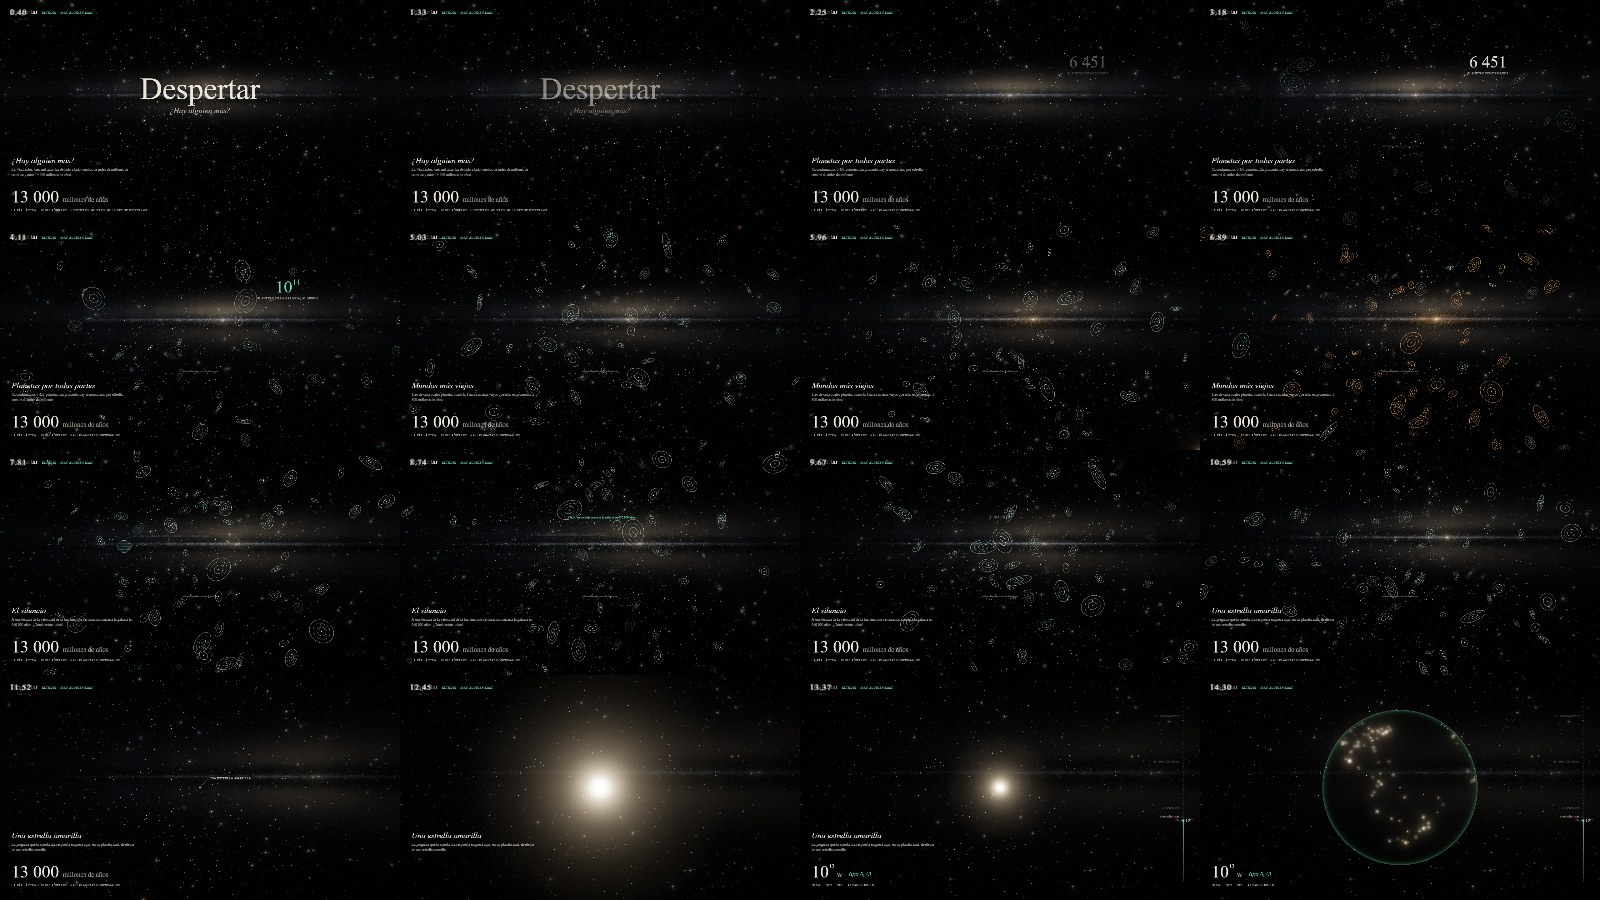
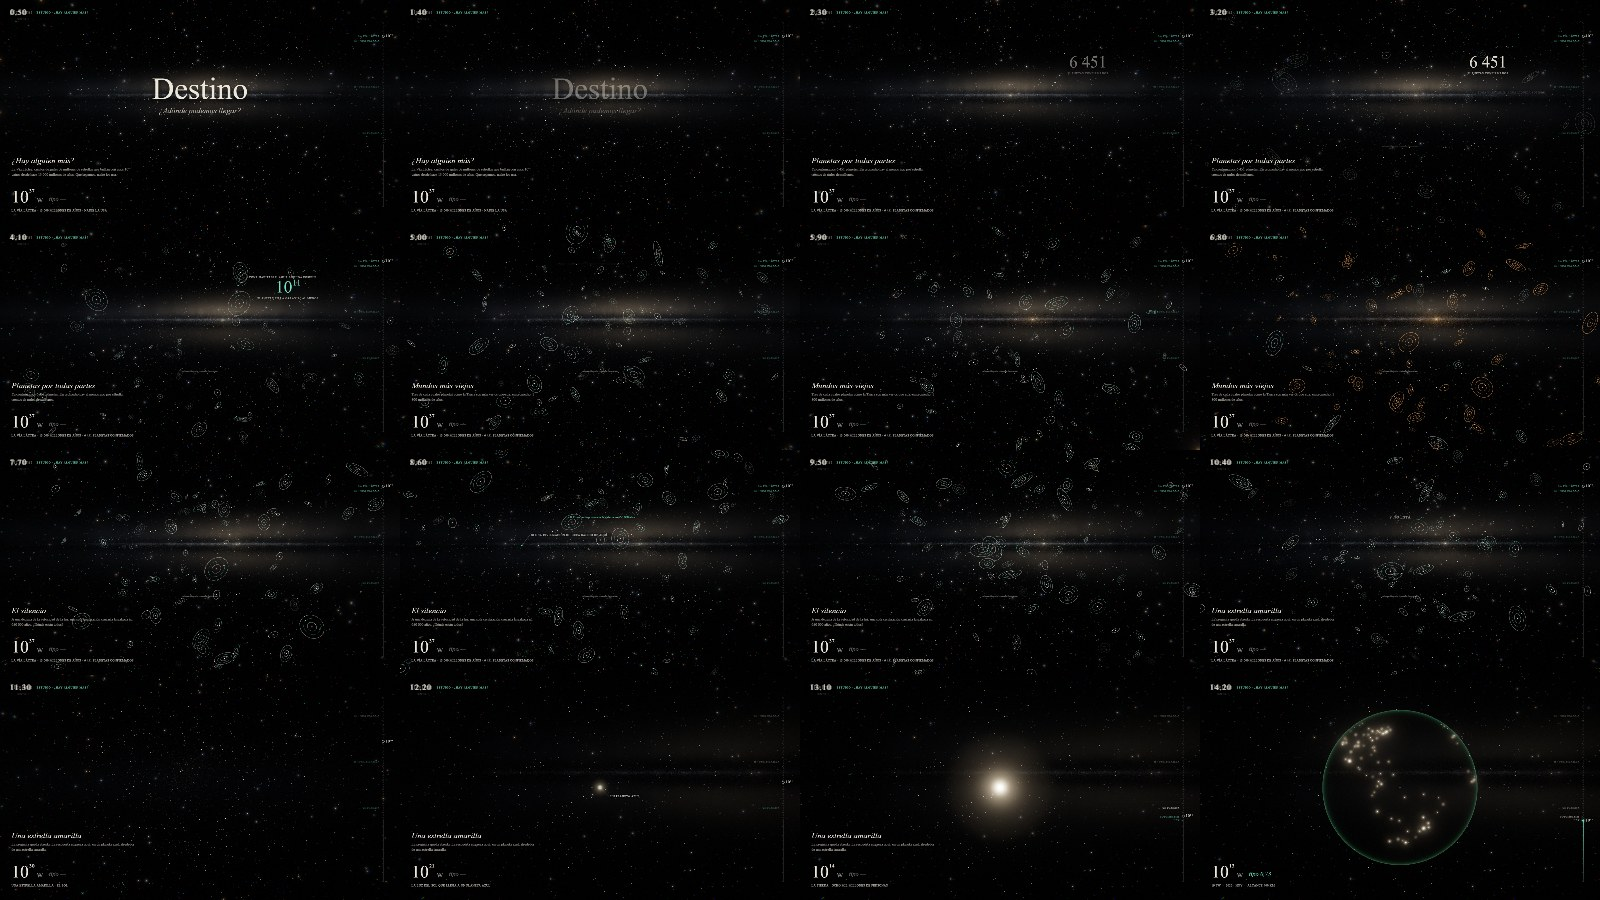
feat(studies): finish the opening as Destino, with the unused power on the clock
Before there is a civilization the clock reads the power that is there and nobody uses (the galaxy, 10^37 W, type unset, an empty ladder) and falls with what is in view on the dive until it reaches ours. The habitable zone gets its label.

diff --git a/prototypes/src/estudios/apertura.ts b/prototypes/src/estudios/apertura.ts
@@ -20,6 +20,10 @@ import type { Escena, Frame, Instancia } from './tipos';
  * 3 · Listening: from the Sun out: our own voice (a bubble of radio ~100 ly) against a galaxy of
  *     100 000 ly; how little we have listened; then back down.
  *
+ * The clock has no civilization to measure yet: it reads the power that is there and nobody uses
+ * (the galaxy, ~10³⁷ W), and on the dive it falls with what is in view (a star, the light on a planet)
+ * until it reaches ours, 10¹³ W, where the ladder starts to fill.
+ *
  * Figures: 6 451 confirmed planets (NASA Exoplanet Archive, 15 Oct 2026); at least one planet per star
  * on average (Cassan et al. 2012); three in four Earth-like planets older than the Earth, by 1.8 ±
  * 0.9 Gyr on average (Lineweaver 2001); at 0.1 c the galaxy is crossed in ~650 000 years (Hart
@@ -98,7 +102,7 @@ export const apertura: Escena = {
     // ------------------------------------------------------------ the journey
     const tl = new Timeline({ f: 0, plan: 0, old: 0, bub: 0, dive: 0, voz: 0, lejos: 0 });
     const cap = (d: number, n: string, f: string) => tl.caption(d, n, f);
-    cap(1.8, '¿Hay alguien más?', 'La Vía Láctea: cien mil años luz de lado a lado, cientos de miles de millones de estrellas y unos 13 000 millones de años.');
+    cap(1.8, '¿Hay alguien más?', 'La Vía Láctea: cientos de miles de millones de estrellas que brillan con unos 10³⁷ vatios desde hace 13 000 millones de años. Que sepamos, nadie los usa.');
     tl.label('portada').to(1.8, { f: 0.06 });
     if (s === 3) {
       cap(2.6, 'Nuestra voz', 'Las primeras radios salieron hace un siglo. Desde entonces, nuestra voz llena una burbuja de unos 100 años luz.');
@@ -189,10 +193,17 @@ export const apertura: Escena = {
       tl,
       listo: earth.listo,
       lectura: (p) => (ended(p) ? { lp: 13.28, ly: -1, lr: 5.6 } : null),
-      reloj: (p) => {
+      // The power that is there and nobody uses; on the dive it falls with what is in view.
+      libre: (p) => {
         const k = tl.get('dive', p);
-        if (k > 0.75) return { cifra: 'Hoy', unidad: '', linea: 'la Tierra · ocho mil millones de personas', a: ease(0.75, 0.9, k) };
-        return { cifra: '13 000', unidad: 'millones de años', linea: s === 3 ? 'la Vía Láctea · 100 000 años luz · nuestra radio: 100' : `la Vía Láctea · 100 000 años luz · ${tl.get('plan', p) > 0.05 ? '6 451 planetas confirmados' : 'cientos de miles de millones de estrellas'}`, a: 1 - ease(0.6, 0.72, k) };
+        const lp = lerp(lerp(lerp(37.0, 26.58, ease(0.1, 0.35, k)), 17.24, ease(0.5, 0.75, k)), 13.28, ease(0.85, 0.985, k));
+        const linea =
+          k > 0.85 ? 'la Tierra · ocho mil millones de personas'
+          : k > 0.5 ? 'la luz del Sol que llega a un planeta azul'
+          : k > 0.1 ? 'una estrella amarilla · el Sol'
+          : s === 3 ? 'la Vía Láctea · 13 000 millones de años · nuestra radio: 100 años luz'
+          : `la Vía Láctea · 13 000 millones de años · ${tl.get('plan', p) > 0.05 ? '6 451 planetas confirmados' : 'nadie la usa'}`;
+        return { lp, linea };
       },
       rotulo: (p) => tl.captionAt(p),
       update(f: Frame) {
@@ -266,10 +277,10 @@ export const apertura: Escena = {
           g.shadowBlur = 20 * u;
           g.font = FONT.serif(118 * u);
           g.fillStyle = ink();
-          g.fillText('Despertar', W / 2, H * 0.44);
+          g.fillText('Destino', W / 2, H * 0.44);
           g.font = FONT.italic(30 * u);
           g.fillStyle = ink(0.75);
-          g.fillText('¿Hay alguien más?', W / 2, H * 0.44 + 54 * u);
+          g.fillText('¿Adónde podemos llegar?', W / 2, H * 0.44 + 54 * u);
           g.restore();
         }
         const dive = tl.get('dive', p);
@@ -277,6 +288,7 @@ export const apertura: Escena = {
         const plan = tl.get('plan', p) * (1 - ease(0.05, 0.25, dive));
         if (plan > 0.01) {
           let shown = 0;
+          let zona: { x: number; y: number; a: number } | null = null;
           for (let i = 0; i < G.conPlanetas.length && shown < 260; i++) {
             const st = G.conPlanetas[i];
             const dly = st.distanceTo(v.pos);
@@ -303,6 +315,7 @@ export const apertura: Escena = {
                 const ang = time * (0.4 / (1 + o)) + i;
                 const px = q.x + Math.cos(ang) * rr * Math.cos(rot) - Math.sin(ang) * rr * (0.25 + 0.6 * tilt) * Math.sin(rot);
                 const py = q.y + Math.cos(ang) * rr * Math.sin(rot) + Math.sin(ang) * rr * (0.25 + 0.6 * tilt) * Math.cos(rot);
+                if (o === 1 && amber <= 0.5 && !zona && q.x > W * 0.3 && q.x < W * 0.7 && q.y > H * 0.15 && q.y < H * 0.55) zona = { x: q.x + rr * Math.cos(rot), y: q.y + rr * Math.sin(rot), a: a };
                 g.fillStyle = amber > 0.5 ? '#ffb070' : o === 1 ? TEAL : ink(0.85);
                 g.beginPath();
                 g.arc(px, py, 1.6 * u, 0, Math.PI * 2);
@@ -333,7 +346,29 @@ export const apertura: Escena = {
               shown += 0.1;
             }
           }
-          if (s === 1) texto(g, u, W / 2, H - 300 * u, 'órbitas dibujadas · tamaño ilustrativo', ink(0.5), plan, 9, 'center', false);
+          if (s === 1) {
+            texto(g, u, W / 2, H - 300 * u, 'órbitas dibujadas · tamaño ilustrativo', ink(0.5), plan, 9, 'center', false);
+            const z = zona as { x: number; y: number; a: number } | null;
+            if (z) nota(g, u, z.x, z.y, 'zona habitable: agua líquida posible', 36, -30, z.a * ease(P('planetas') + 0.6, P('planetas') + 1.2, p) * (1 - ease(P('viejos') - 0.2, P('viejos') + 0.3, p)));
+          } else {
+            // The key, from afar: the teal ones have a planet in their habitable zone.
+            const ka = plan * ease(P('planetas') + 0.6, P('planetas') + 1.2, p);
+            if (ka > 0.01) {
+              g.save();
+              g.globalAlpha = ka;
+              g.fillStyle = ink(0.8);
+              g.beginPath();
+              g.arc(W / 2 - 150 * u, H - 300 * u, 2.4 * u, 0, Math.PI * 2);
+              g.fill();
+              g.fillStyle = TEAL;
+              g.beginPath();
+              g.arc(W / 2 + 6 * u, H - 300 * u, 2.4 * u, 0, Math.PI * 2);
+              g.fill();
+              g.restore();
+              texto(g, u, W / 2 - 142 * u, H - 300 * u, 'una estrella con planetas', ink(0.7), ka, 9.5, 'left', false);
+              texto(g, u, W / 2 + 14 * u, H - 300 * u, 'uno en la zona habitable', TEAL, ka, 9.5, 'left', false);
+            }
+          }
           // The count, as the show.
           if (s !== 3) {
             const c = ease(P('planetas') + 0.2, P('planetas') + 0.8, p) * (1 - ease(P('viejos') - 0.3, P('viejos'), p));

diff --git a/prototypes/src/placa.ts b/prototypes/src/placa.ts
@@ -271,12 +271,13 @@ const II = 26;
 const III = 36;
 
 /** The power ladder at the right edge: fills with the civilization's colour up to where it is. */
-export function escalera(g: CanvasRenderingContext2D, u: number, W: number, H: number, lp: number, muro: Muro | null = null) {
+export function escalera(g: CanvasRenderingContext2D, u: number, W: number, H: number, lp: number, muro: Muro | null = null, vacia = 0) {
   const x = W - 64 * u;
   const y0 = H - 70 * u;
   const y1 = 86 * u;
   const yOf = (v: number) => y0 + ((v - LP0) / (LP1 - LP0)) * (y1 - y0);
   g.save();
+  const A0 = g.globalAlpha;
   // The rail, by certainty: solid (measured) up to today, dashed (physics allows it) to II, dotted beyond.
   g.lineWidth = Math.max(1, 1.1 * u);
   const seg = (a: number, b: number, dash: number[], alpha: number) => {
@@ -307,7 +308,9 @@ export function escalera(g: CanvasRenderingContext2D, u: number, W: number, H: n
   grd.addColorStop(0, 'rgba(111,227,193,0.05)');
   grd.addColorStop(1, 'rgba(111,227,193,0.9)');
   g.fillStyle = grd;
+  g.globalAlpha = A0 * (1 - vacia);
   g.fillRect(x - 1.6 * u, yp, 3.2 * u, y0 - yp);
+  g.globalAlpha = A0;
   // Rungs: names show only near where we are (majors always, faint).
   g.font = FONT.mono(9 * u);
   g.letterSpacing = `${1 * u}px`;
@@ -318,7 +321,7 @@ export function escalera(g: CanvasRenderingContext2D, u: number, W: number, H: n
     const near = 1 - smoothstep(1.2, 3.2, Math.abs(r.lp - lp));
     const a = r.major ? 0.38 + 0.5 * near : 0.7 * near;
     if (a < 0.02) continue;
-    g.fillStyle = r.lp <= lp ? `rgba(111,227,193,${a})` : ink(a);
+    g.fillStyle = r.lp <= lp && vacia < 0.5 ? `rgba(111,227,193,${a})` : ink(a);
     g.fillText(r.label.toUpperCase(), x - 14 * u, yy);
     g.fillRect(x - (r.major ? 10 : 6) * u, yy - 0.5 * u, (r.major ? 10 : 6) * u, Math.max(1, u));
   }
@@ -361,14 +364,26 @@ export function escalera(g: CanvasRenderingContext2D, u: number, W: number, H: n
     }
     g.restore();
   }
-  // You are here.
-  g.fillStyle = TEAL;
-  g.shadowColor = TEAL;
-  g.shadowBlur = 10 * u;
-  g.beginPath();
-  g.arc(x, yp, 4 * u, 0, Math.PI * 2);
-  g.fill();
-  g.shadowBlur = 0;
+  // You are here (or, with an empty ladder, the power that is there and nobody uses: a hollow ring).
+  if (vacia < 1) {
+    g.globalAlpha = A0 * (1 - vacia);
+    g.fillStyle = TEAL;
+    g.shadowColor = TEAL;
+    g.shadowBlur = 10 * u;
+    g.beginPath();
+    g.arc(x, yp, 4 * u, 0, Math.PI * 2);
+    g.fill();
+    g.shadowBlur = 0;
+  }
+  if (vacia > 0) {
+    g.globalAlpha = A0 * vacia;
+    g.strokeStyle = ink(0.85);
+    g.lineWidth = Math.max(1, 1.2 * u);
+    g.beginPath();
+    g.arc(x, yp, 4.5 * u, 0, Math.PI * 2);
+    g.stroke();
+  }
+  g.globalAlpha = A0;
   g.textAlign = 'left';
   g.font = FONT.serif(15 * u);
   g.fillStyle = ink(0.9);
@@ -384,14 +399,45 @@ export function marca(g: CanvasRenderingContext2D, u: number, concepto: string, 
   g.shadowBlur = 10 * u;
   g.font = FONT.serif(27 * u);
   g.fillStyle = ink();
-  g.fillText('Despertar', 40 * u, 54 * u);
-  const w = g.measureText('Despertar').width;
+  g.fillText('Destino', 40 * u, 54 * u);
+  const w = g.measureText('Destino').width;
   g.font = FONT.mono(10.5 * u);
   g.letterSpacing = `${1.4 * u}px`;
   g.fillStyle = TEAL;
   g.fillText(concepto.toUpperCase(), 40 * u + w + 16 * u, 52 * u);
   g.fillStyle = ink(0.5);
   g.fillText(sub.toUpperCase(), 40 * u, 76 * u);
+  g.restore();
+}
+
+/**
+ * The power clock before there is a civilization: the power that is there (the galaxy, a star, the
+ * light on a planet) and nobody uses. Same place and size as the HUD, «tipo —» instead of the type.
+ */
+export function hudLibre(g: CanvasRenderingContext2D, u: number, H: number, lp: number, linea: string, cap: Rotulo | null, capAlpha = 1, alpha = 1) {
+  const x = 44 * u;
+  g.save();
+  g.textBaseline = 'alphabetic';
+  g.shadowColor = 'rgba(0,0,0,0.85)';
+  g.shadowBlur = 12 * u;
+  if (cap && capAlpha > 0.01) {
+    g.globalAlpha = capAlpha;
+    g.font = FONT.italic(31 * u);
+    g.fillStyle = ink();
+    g.fillText(cap.name, x, H - 236 * u);
+    g.font = FONT.sans(14 * u);
+    g.fillStyle = ink(0.62);
+    wrap(g, cap.fact, 470 * u).forEach((line, i) => g.fillText(line, x, H - 208 * u + i * 20 * u));
+  }
+  g.globalAlpha = alpha;
+  const w = potencia(g, x, H - 86 * u, sup(Math.floor(lp)), 'W', 66 * u);
+  g.font = FONT.italic(24 * u);
+  g.fillStyle = ink(0.45);
+  g.fillText('tipo —', x + w + 22 * u, H - 92 * u);
+  g.font = FONT.mono(11 * u);
+  g.letterSpacing = `${0.9 * u}px`;
+  g.fillStyle = ink(0.78);
+  g.fillText(linea.toUpperCase(), x, H - 52 * u);
   g.restore();
 }
 

diff --git a/prototypes/src/estudios.ts b/prototypes/src/estudios.ts
@@ -7,7 +7,7 @@ import * as THREE from 'three';
 import { clamp, damp } from './math';
 import { createStage, liberar } from './stage';
 import { FONDOS } from './pantalla';
-import { escalera, hud, marca, reloj } from './placa';
+import { escalera, hud, hudLibre, marca, reloj } from './placa';
 import type { Escena, Frame, Instancia } from './estudios/tipos';
 import { muro } from './estudios/muro';
 import { ascensor } from './estudios/ascensor';
@@ -15,7 +15,7 @@ import { apertura } from './estudios/apertura';
 import { mente } from './estudios/mente';
 
 /**
- * Despertar's phase-0 studies: what defines the rest, each in two or three ways so Diego can choose.
+ * Destino's phase-0 studies: what defines the rest, each in two or three ways so Diego can choose.
  * A wall («El calor nos echa»), a second station («Cómo se sostiene un ascensor espacial»), the
  * opening («¿Hay alguien más?») and the turn away from matter («Dejar de ser materia»). The page
  * scroll is time; nothing else moves the camera.
@@ -155,8 +155,14 @@ function step(now: number, dt: number, at: number) {
     hud(g, u, W, H, l, cap, 1);
     if (inst.escalera !== false) escalera(g, u, W, H, l.lp, inst.muro?.(at) ?? null);
   } else {
-    const r = inst.reloj?.(at);
-    if (r) reloj(g, u, H, r.cifra, r.unidad, r.linea, cap, 1, r.a ?? 1);
+    const lb = inst.libre?.(at);
+    const r = lb ? null : inst.reloj?.(at);
+    if (lb) {
+      hudLibre(g, u, H, lb.lp, lb.linea, cap, 1, lb.a ?? 1);
+      g.globalAlpha = lb.a ?? 1;
+      escalera(g, u, W, H, lb.lp, null, 1);
+      g.globalAlpha = 1;
+    } else if (r) reloj(g, u, H, r.cifra, r.unidad, r.linea, cap, 1, r.a ?? 1);
   }
 }
 

diff --git a/prototypes/index.html b/prototypes/index.html
@@ -3,7 +3,7 @@
   <head>
     <meta charset="UTF-8" />
     <meta name="viewport" content="width=device-width, initial-scale=1.0" />
-    <title>Despertar · laboratorio</title>
+    <title>Destino · laboratorio</title>
     <style>
       html, body { min-height: 100%; margin: 0; background: #030308; color: #ece7db; font: 14px/1.7 ui-monospace, monospace; }
       body { display: grid; place-content: center; gap: 18px; padding: 48px 16px; }
@@ -14,7 +14,7 @@
     </style>
   </head>
   <body>
-    <h1>Despertar · laboratorio</h1>
+    <h1>Destino · laboratorio</h1>
     <p class="dim">Fase 0 · prototipos de dirección. Scroll: el tiempo avanza · A: reproducir · E: explorar.</p>
     <ul>
       <li><a href="./sistema.html">El sistema solar trabaja</a> (tipo I → II, todo a la vez; la estación del enjambre)</li>

diff --git a/prototypes/src/estudios/tipos.ts b/prototypes/src/estudios/tipos.ts
@@ -39,6 +39,8 @@ export interface Instancia {
   placa?(g: CanvasRenderingContext2D, f: Frame): void;
   /** The HUD reading; null hides the power clock (the opening has no power yet). */
   lectura(p: number): Lectura | null;
+  /** Before there is a civilization: the power that is there and nobody uses (log10 W), and its line. */
+  libre?(p: number): { lp: number; linea: string; a?: number } | null;
   /** Without power on the HUD: what the clock reads instead (big figure, unit, mono line). */
   reloj?(p: number): { cifra: string; unidad: string; linea: string; a?: number } | null;
   /** The moment's name and sentence. */

diff --git a/prototypes/estudios.html b/prototypes/estudios.html
@@ -3,7 +3,7 @@
   <head>
     <meta charset="UTF-8" />
     <meta name="viewport" content="width=device-width, initial-scale=1.0" />
-    <title>Despertar · estudios</title>
+    <title>Destino · estudios</title>
     <meta name="theme-color" content="#000000" />
   </head>
   <body>
